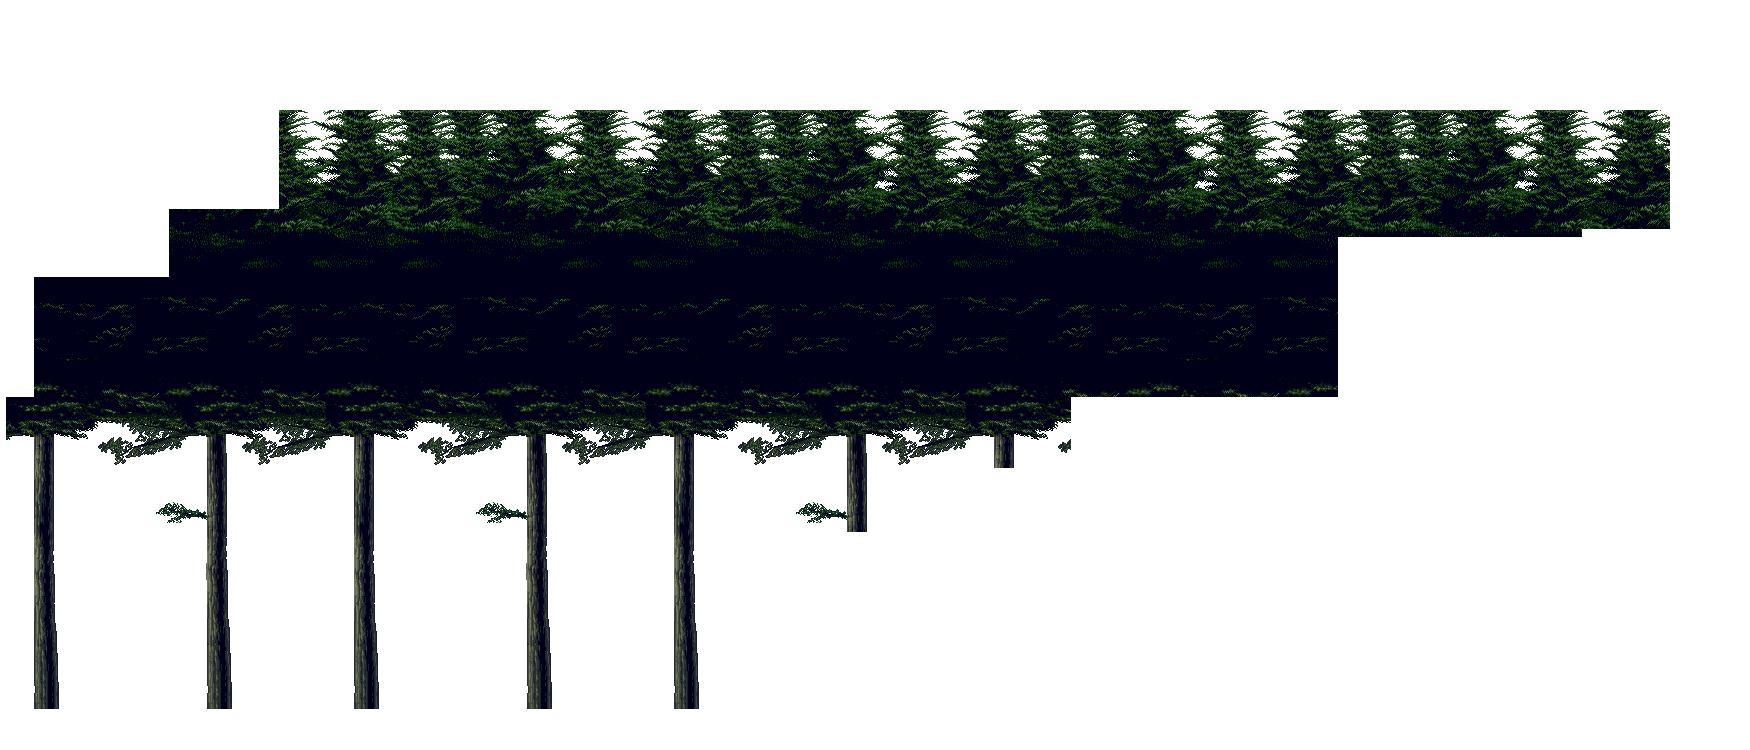
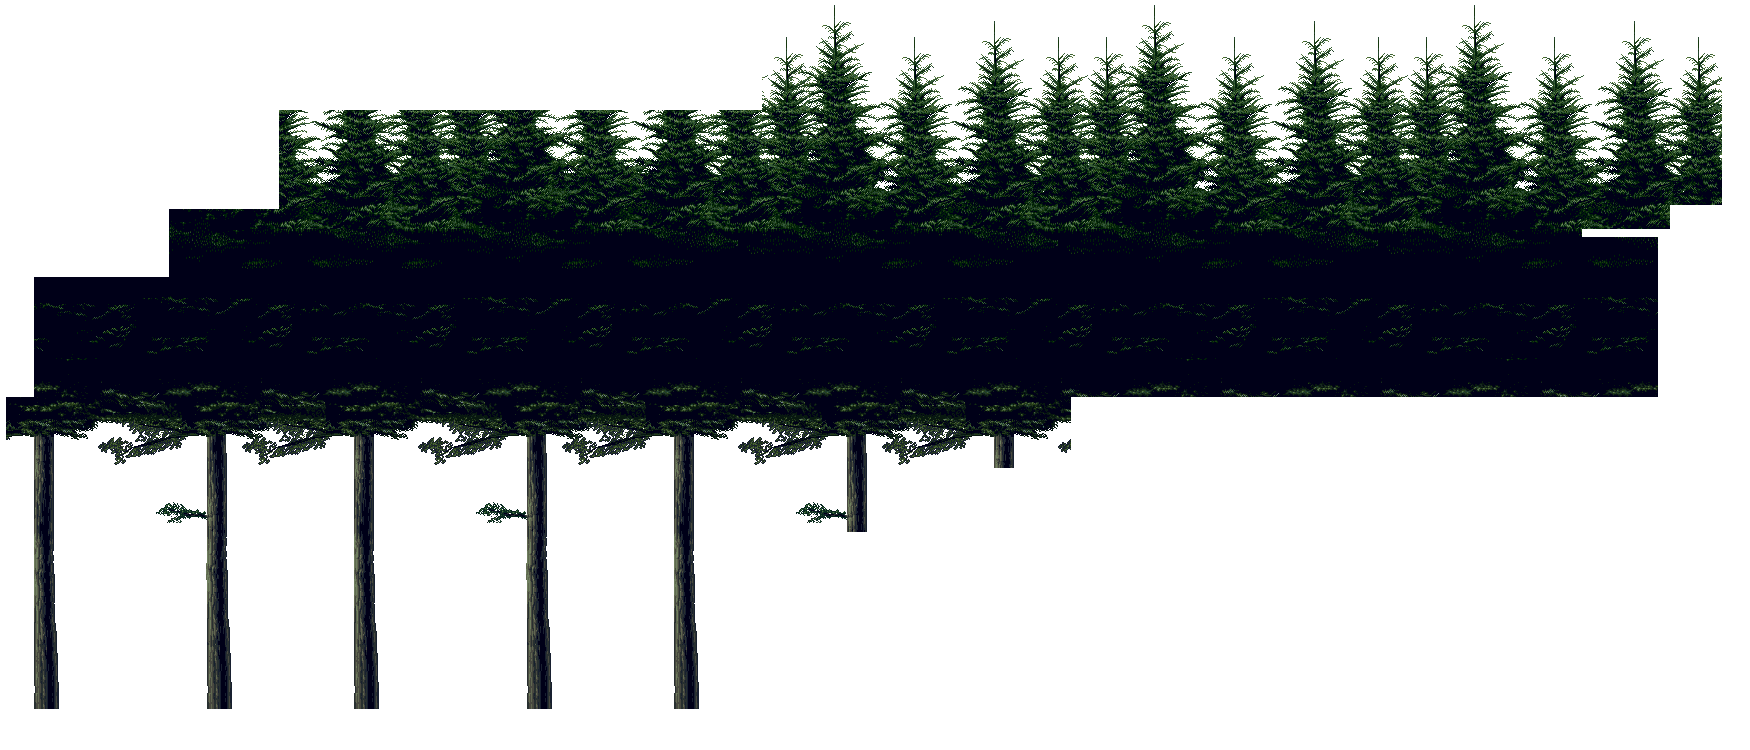
Added Camera Velocities
Added lateral texture & and permanent velocity :)

Changed region(s): [[0.7406, 0.3067, 0.9566, 0.552], [0.432, 0.0307, 0.9874, 0.276]]

diff --git a/SDL4_Handout/ModuleBackground.cpp b/SDL4_Handout/ModuleBackground.cpp
@@ -3,6 +3,7 @@
 #include "ModuleTextures.h"
 #include "ModuleRender.h"
 #include "ModuleBackground.h"
+#include "SDL\include\SDL_render.h"
 
 // Reference at https://www.youtube.com/watch?v=OEhmUuehGOA
 
@@ -163,7 +164,16 @@ bool ModuleBackground::Start()
 update_status ModuleBackground::Update()
 {
 	// Draw everything --------------------------------------
-	int aux = -10, aux2 = 810, aux3 = 1775, aux4 = 780, aux5 = 2031, aux6 = 2350, aux7 = 5119, aux8 = 4990, aux9 = 6440, aux10 = 6930, aux11 = 7408;
+	int aux = -10, aux2 = 810, aux3 = 1775, aux4 = 780, aux5 = 2031, aux6 = 2350, aux7 = 5119, aux8 = 5990, aux9 = 7440, aux10 = 7930, aux11 = 8408;
+	SDL_SetRenderDrawColor(App->render->renderer, 0, 0, 0, 0);
+	/*if (graphics) {
+			SDL_SetTextureAlphaMod(graphics, alpha);
+		}
+		if (alpha > SDL_ALPHA_TRANSPARENT) {
+			alpha -= 5;
+		}
+		*/
+
 	for (int i = 0; i < 5; i++) {
 		App->render->Blit(graphics, aux, 0, &trees, 0.55f);
 		App->render->Blit(graphics, aux + 42, 45, &toptree, 0.60f);
@@ -203,7 +213,7 @@ update_status ModuleBackground::Update()
 	App->render->Blit(graphics, 938, 132, &Temple, 0.75f);
 	App->render->Blit(graphics, 1400, 92, &Temple2, 0.75f);
 
-	for (int i = 0; i < 12; i++) {
+	for (int i = 0; i < 14; i++) {
 		App->render->Blit(graphics, aux6, 0, &backfinal, 0.65f);
 		aux6 += backfinal.w;
 	}
@@ -217,13 +227,13 @@ update_status ModuleBackground::Update()
 		App->render->Blit(graphics, aux5, 0, &grasstrees4, 0.75f);
 		aux5 += grasstrees4.w;
 	}
-	for (int i = 0; i < 16; i++) {
-		App->render->Blit(graphics, aux7, 185, &onlygrass, 0.75f);
+	for (int i = 0; i < 22; i++) {
+		App->render->Blit(graphics, aux7, grassy, &onlygrass, 0.75f);
 		aux7 += onlygrass.w;
 	}
 	
 	App->render->Blit(graphics, 4719, 0, &grasstree, 0.75f);
-		
+	App->render->Blit(laterals, posx, posy, &lateral, 0.75f);
 	for (int i = 0; i < 9; i++) {
 		App->render->Blit(graphics, aux8, 0, &sky, 0.50f);
 		aux8 += sky.w;
@@ -243,6 +253,8 @@ update_status ModuleBackground::Update()
 		App->render->Blit(graphics, aux11, SCREEN_HEIGHT - bambu.h, &bambu, 0.75f);
 		aux11 += bambu.w;
 	}
+
+	App->render->Blit(laterals, posx, posy, &lateral, 0.75f);
 
 
 	//App->render->Blit(laterals, 6671, -370, &lateral, 0.75f);

diff --git a/SDL4_Handout/ModuleRender.cpp b/SDL4_Handout/ModuleRender.cpp
@@ -3,6 +3,7 @@
 #include "ModuleRender.h"
 #include "ModuleWindow.h"
 #include "ModuleInput.h"
+#include "ModuleBackground.h"
 #include "SDL/include/SDL.h"
 
 ModuleRender::ModuleRender() : Module()
@@ -49,17 +50,51 @@ update_status ModuleRender::PreUpdate()
 
 update_status ModuleRender::Update()	
 {
-	if (App->render->rect.x >= 0 && App->render->rect.x < 2200) {
-		speed = 5;
-
+	if (App->render->rect.x == 0) {
+		speed = 10.25;
 	}
-	if (App->render->rect.x > 2200); {
-		speed = 15;
-
+	
+	else if (App->render->rect.x < -1700 && App->render->rect.x > -5400) {
+		speed = 6.75;
 	}
+
+	else if (App->render->rect.x < -5400 && App->render->rect.x > -10600) {
+		speed = 13;
+	}
+
+	else if (App->render->rect.x < -10600 && App->render->rect.x > -11000) {
+		speed -= 0.17;
+	}
+	else if(App->render->rect.x < -11000 && App->render->rect.x > -12820) {
+		speed = 2;
+	}
+	else if (App->render->rect.x < -12820 && App->render->rect.x > -25820 ) {
+		if (aux < 135) {
+			speed = 0;
+			aux++;
+		}
+		else{
+			speed = 6.75;
+		}
+	}
+	
+	else if (App->render->rect.x < -27200 && App->render->rect.x > -36000 ) {
+		App->background->posx -= 1.55;
+		App->background->posy += 1.25;
+		speed = 6.75;
+	}
+	else if (App->render->rect.x < -31000 ) {
+		speed = 10;
+	}
+	if(App->render->rect.x < -24820) {
+		App->background->grassy += 0.5;
+	}
+
+	if (App->input->keyboard[SDL_SCANCODE_TAB] == 1) {
+		speed = 80;
+	}
+	
 	camera.x -= speed;
-
-
 
 
 	/*if(App->input->keyboard[SDL_SCANCODE_UP] == 1)

diff --git a/SDL4_Handout/ModuleBackground.h b/SDL4_Handout/ModuleBackground.h
@@ -21,7 +21,9 @@ public:
 	SDL_Texture* graphics = nullptr;
 	SDL_Texture* laterals = nullptr;
 	SDL_Rect groundandtrees, Templesgate, fisrttrees, backtrees, rockground, trees, ground, groundgrass, grasstrees2, grasstrees4, grasstree, onlygrass, Temple, Temple2, lonelytree,toptree, toptrees, backfinal, sky, mountain, bambu, bambuback, lateral;
+	float posx = 7000, posy = -480, grassy = 185;
 	
+	int alpha = 255;
 
 };
 

diff --git a/SDL4_Handout/ModuleRender.h b/SDL4_Handout/ModuleRender.h
@@ -25,7 +25,8 @@ public:
 	SDL_Renderer* renderer = nullptr;
 	SDL_Rect camera;
 	SDL_Rect rect;
-	int speed;
+	float speed;
+	int aux;
 };
 
 #endif //__ModuleRenderer_H__
